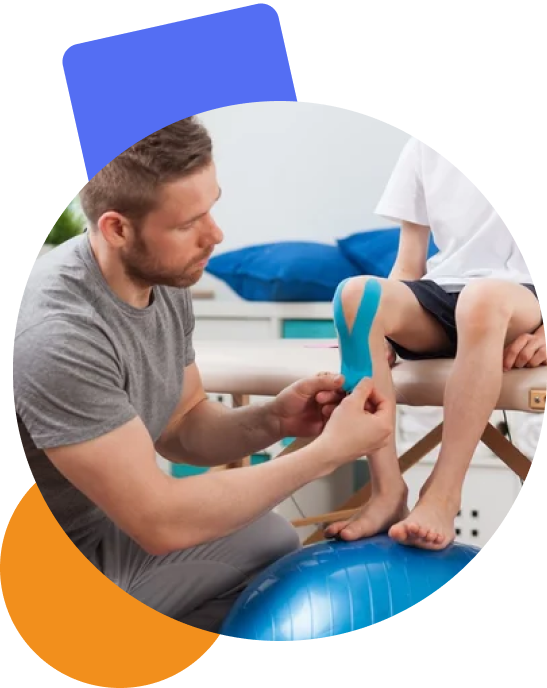
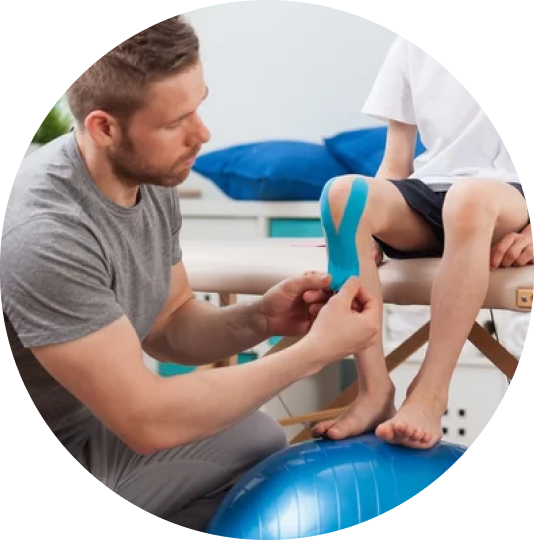
animacion

diff --git a/anothertestapp/resources/css/app.css b/anothertestapp/resources/css/app.css
@@ -256,3 +256,130 @@ backdrop-filter: blur( 5px );
     background-repeat: no-repeat;
     background-size: 100%;
 }
+/* animaciones de figuras geometricas */
+.wobble-hor-bottom {
+	-webkit-animation: wobble-hor-bottom 1s infinite both;
+	        animation: wobble-hor-bottom 1s infinite both;
+}
+
+ @-webkit-keyframes wobble-hor-bottom {
+    0%,
+    100% {
+      -webkit-transform: translateX(0%);
+              transform: translateX(0%);
+      -webkit-transform-origin: 50% 50%;
+              transform-origin: 50% 50%;
+    }
+    15% {
+      -webkit-transform: translateX(-30px) rotate(-6deg);
+              transform: translateX(-30px) rotate(-6deg);
+    }
+    30% {
+      -webkit-transform: translateX(15px) rotate(6deg);
+              transform: translateX(15px) rotate(6deg);
+    }
+    45% {
+      -webkit-transform: translateX(-15px) rotate(-3.6deg);
+              transform: translateX(-15px) rotate(-3.6deg);
+    }
+    60% {
+      -webkit-transform: translateX(9px) rotate(2.4deg);
+              transform: translateX(9px) rotate(2.4deg);
+    }
+    75% {
+      -webkit-transform: translateX(-6px) rotate(-1.2deg);
+              transform: translateX(-6px) rotate(-1.2deg);
+    }
+  }
+  @keyframes wobble-hor-bottom {
+    0%,
+    100% {
+      -webkit-transform: translateX(0%);
+              transform: translateX(0%);
+      -webkit-transform-origin: 50% 50%;
+              transform-origin: 50% 50%;
+    }
+    15% {
+      -webkit-transform: translateX(-30px) rotate(-6deg);
+              transform: translateX(-30px) rotate(-6deg);
+    }
+    30% {
+      -webkit-transform: translateX(15px) rotate(6deg);
+              transform: translateX(15px) rotate(6deg);
+    }
+    45% {
+      -webkit-transform: translateX(-15px) rotate(-3.6deg);
+              transform: translateX(-15px) rotate(-3.6deg);
+    }
+    60% {
+      -webkit-transform: translateX(9px) rotate(2.4deg);
+              transform: translateX(9px) rotate(2.4deg);
+    }
+    75% {
+      -webkit-transform: translateX(-6px) rotate(-1.2deg);
+              transform: translateX(-6px) rotate(-1.2deg);
+    }
+  }
+  .wobble-ver-right {
+	-webkit-animation: wobble-ver-right 2s infinite both;
+	        animation: wobble-ver-right 2s infinite both;
+}
+ @-webkit-keyframes wobble-ver-right {
+    0%,
+    100% {
+      -webkit-transform: translateY(0) rotate(0);
+              transform: translateY(0) rotate(0);
+      -webkit-transform-origin: 50% 50%;
+              transform-origin: 50% 50%;
+    }
+    15% {
+      -webkit-transform: translateY(-30px) rotate(6deg);
+              transform: translateY(-30px) rotate(6deg);
+    }
+    30% {
+      -webkit-transform: translateY(15px) rotate(-6deg);
+              transform: translateY(15px) rotate(-6deg);
+    }
+    45% {
+      -webkit-transform: translateY(-15px) rotate(3.6deg);
+              transform: translateY(-15px) rotate(3.6deg);
+    }
+    60% {
+      -webkit-transform: translateY(9px) rotate(-2.4deg);
+              transform: translateY(9px) rotate(-2.4deg);
+    }
+    75% {
+      -webkit-transform: translateY(-6px) rotate(1.2deg);
+              transform: translateY(-6px) rotate(1.2deg);
+    }
+  }
+  @keyframes wobble-ver-right {
+    0%,
+    100% {
+      -webkit-transform: translateY(0) rotate(0);
+              transform: translateY(0) rotate(0);
+      -webkit-transform-origin: 50% 50%;
+              transform-origin: 50% 50%;
+    }
+    15% {
+      -webkit-transform: translateY(-30px) rotate(6deg);
+              transform: translateY(-30px) rotate(6deg);
+    }
+    30% {
+      -webkit-transform: translateY(15px) rotate(-6deg);
+              transform: translateY(15px) rotate(-6deg);
+    }
+    45% {
+      -webkit-transform: translateY(-15px) rotate(3.6deg);
+              transform: translateY(-15px) rotate(3.6deg);
+    }
+    60% {
+      -webkit-transform: translateY(9px) rotate(-2.4deg);
+              transform: translateY(9px) rotate(-2.4deg);
+    }
+    75% {
+      -webkit-transform: translateY(-6px) rotate(1.2deg);
+              transform: translateY(-6px) rotate(1.2deg);
+    }
+  }
+  

diff --git a/anothertestapp/resources/views/home/quienes.blade.php b/anothertestapp/resources/views/home/quienes.blade.php
@@ -17,6 +17,14 @@
       
     </div>
     <div class="md:4/10 lg:w-1/2 flex justify-center">
-      <img class="w-[60%]" src="../resources/img/png/imagen.png" alt="image" loading="lazy" width="" height="" class="w-full">
+      <img class="start-0 absolute wobble-hor-bottom" src="../resources/img/png/geometric/rectangle.svg" alt="">
+      <div class="end-[50%] top-[150%] absolute wobble-ver-right">
+        <svg width="240" height="240" viewBox="0 0 240 240" fill="none" xmlns="http://www.w3.org/2000/svg">
+          <circle  cx="120.001" cy="120" r="120" fill="#F28F1C"/>
+          </svg>
+      </div>
+      <img class="w-[60%] z-0" src="../resources/img/png/imagen.png" alt="image" loading="lazy" width="" height="" class="w-full">
+      
+
     </div>
   </div>
